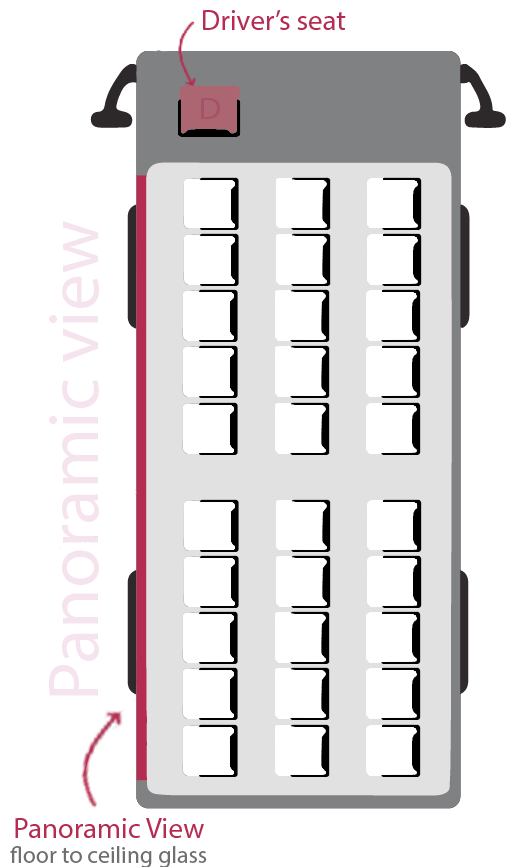
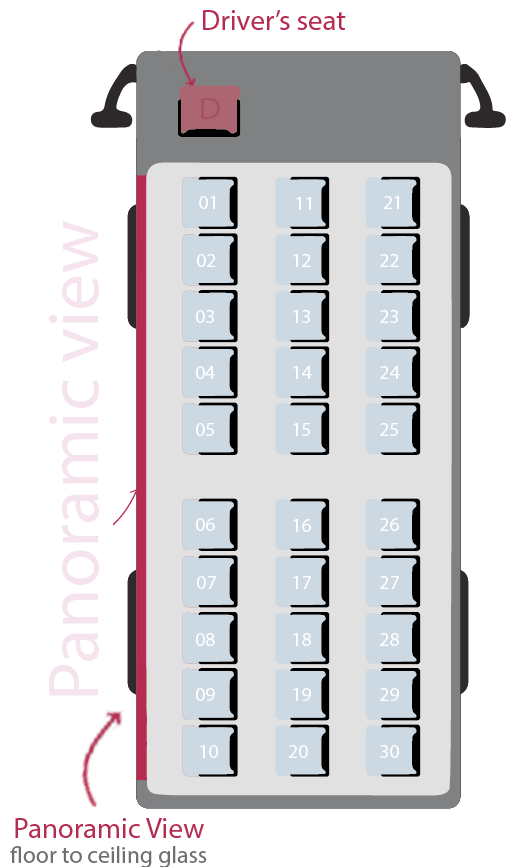
sync

diff --git a/static/css/main.scss b/static/css/main.scss
@@ -2093,7 +2093,7 @@ h3{
         display: flex;
         flex-direction: column;
         transition: .2s all ease;
-        max-width: 22em;
+        max-width: 19em;
         grid-row: 1/-1;
 
         h3 {
@@ -2148,9 +2148,9 @@ h3{
         grid-row: 2/3;
         flex-wrap: nowrap;
         position: relative;
-        max-width: 35em;
-        width: 35em;
-        min-height: 100%;
+        // max-width: 35em;
+        width: 100%;
+        height: 100%;
         
         .selection {
             position: relative;
@@ -2171,7 +2171,8 @@ h3{
                 }
 
                 .seat{
-                    width: 2.5em;
+                    max-width: 2.5em;
+                    max-height: 2.5em;
                     height: 2.5em;
                     margin-bottom: .2em;
                     background-color: $avaiableSeat;
@@ -2185,7 +2186,6 @@ h3{
         }//end selection
     
         .bus-img{
-            position: absolute;
             width: 100%;
             z-index: 100;
             pointer-events: none;
@@ -2193,8 +2193,7 @@ h3{
 
         .bus-img-r {
             display: none;
-            position: absolute;
-            width: 70%;
+            width: 100%;
             z-index: 100;
             pointer-events: none;
             margin: 0 auto;
@@ -2202,6 +2201,20 @@ h3{
 
         @media screen and (max-width: 768px){
             margin: 1.5em;
+
+            .selection {
+                .wrapper {
+
+                }//end wrapper
+            }//end selection
+
+            .bus-img{
+                display: none;
+            }//end bus-img
+
+            .bus-img-r {
+                display: block;
+            }//end bus-img-r
         }
 
     }//end seats

diff --git a/static/css/main.css b/static/css/main.css
@@ -2264,7 +2264,7 @@ h3 {
           flex-direction: column;
   -webkit-transition: .2s all ease;
   transition: .2s all ease;
-  max-width: 22em;
+  max-width: 19em;
   grid-row: 1/-1;
 }
 
@@ -2342,9 +2342,8 @@ h3 {
   -ms-flex-wrap: nowrap;
       flex-wrap: nowrap;
   position: relative;
-  max-width: 35em;
-  width: 35em;
-  min-height: 100%;
+  width: 100%;
+  height: 100%;
 }
 
 .reservation .seats .selection {
@@ -2372,7 +2371,8 @@ h3 {
 }
 
 .reservation .seats .selection .wrapper .seat {
-  width: 2.5em;
+  max-width: 2.5em;
+  max-height: 2.5em;
   height: 2.5em;
   margin-bottom: .2em;
   background-color: #cbd9e3;
@@ -2390,7 +2390,6 @@ h3 {
 }
 
 .reservation .seats .bus-img {
-  position: absolute;
   width: 100%;
   z-index: 100;
   pointer-events: none;
@@ -2398,8 +2397,7 @@ h3 {
 
 .reservation .seats .bus-img-r {
   display: none;
-  position: absolute;
-  width: 70%;
+  width: 100%;
   z-index: 100;
   pointer-events: none;
   margin: 0 auto;
@@ -2408,6 +2406,12 @@ h3 {
 @media screen and (max-width: 768px) {
   .reservation .seats {
     margin: 1.5em;
+  }
+  .reservation .seats .bus-img {
+    display: none;
+  }
+  .reservation .seats .bus-img-r {
+    display: block;
   }
 }
 

diff --git a/reservation.html b/reservation.html
@@ -62,7 +62,7 @@
         <div class="seats">
             <img src="./static/img/bus/bus.png" class="bus-img" alt="">
             <img src="./static/img/bus/bus-mobile.png" class="bus-img-r" alt="">
-            <div class="selection">
+            <!-- <div class="selection">
                 <div class="wrapper">
                     <span class="seat">1</span>
                     <span class="seat">2</span>
@@ -97,7 +97,7 @@
                     <span class="seat">29</span>
                     <span class="seat">30</span>
                 </div>
-            </div>
+            </div> -->
         </div>
         <div class="legend">
             <button class="btn-outline-purple">Book now</button>
